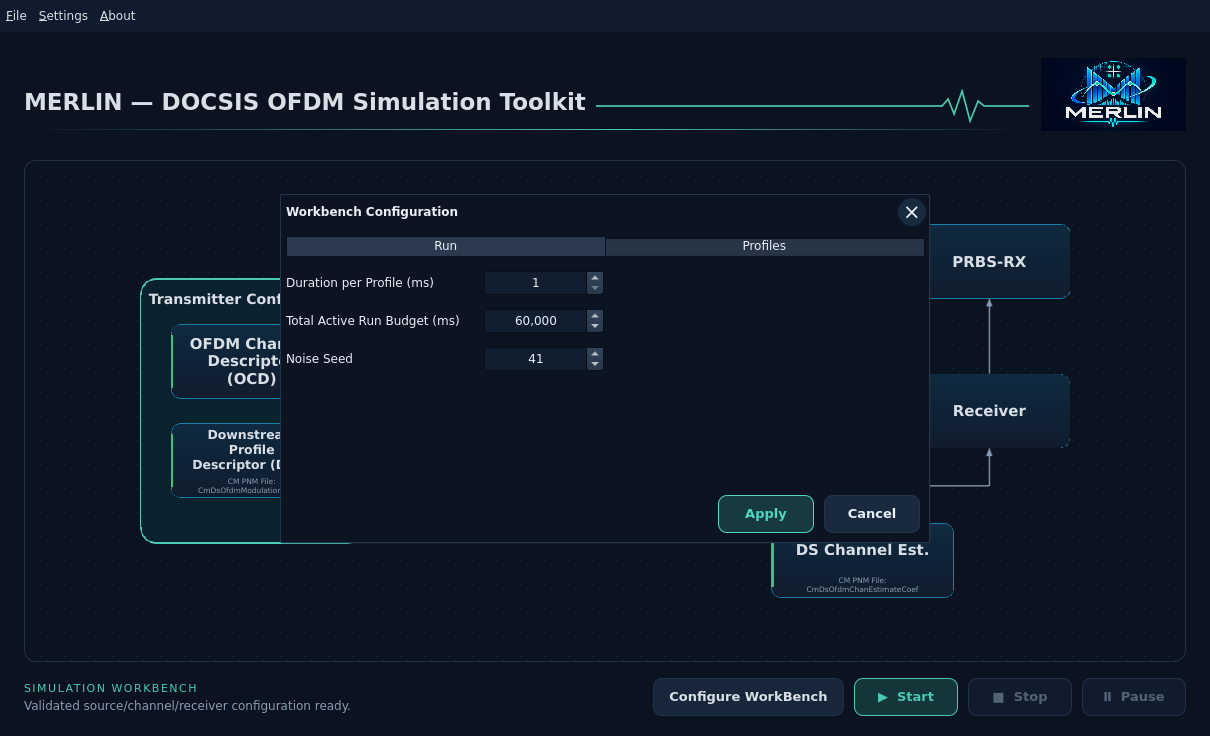
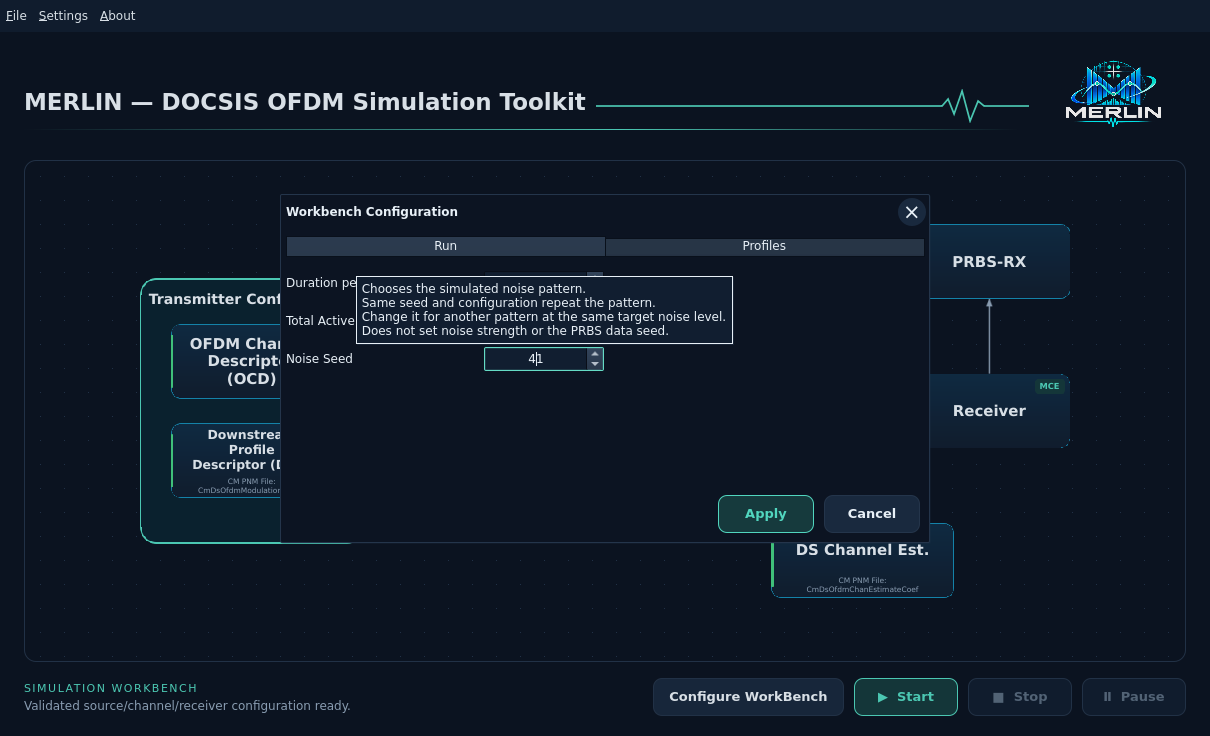
Feature: Explain Noise Seed with contextual help - Add hover, focus and accessible explanations - Update terminology, guide and native screenshot - Tests: 66 adapter and 58 QML checks pass - Tests: Clippy and native Qt build pass

Changed region(s): [[0.2752, 0.375, 0.6116, 0.5], [0.9174, 0.0938, 0.9479, 0.125], [0.8562, 0.5, 0.8868, 0.5312]]

diff --git a/apps/qt/qml/workbenches/workbench/WorkbenchConfigurationDialog.qml b/apps/qt/qml/workbenches/workbench/WorkbenchConfigurationDialog.qml
@@ -14,6 +14,7 @@ WorkbenchDialog {
     property var draft: ({})
     property var profileIds: []
     property var selectedIds: []
+    readonly property string noiseSeedHelp: "Chooses the simulated noise pattern.\nSame seed and configuration repeat the pattern.\nChange it for another pattern at the same target noise level.\nDoes not set noise strength or the PRBS data seed."
     property string errorMessage: ""
     signal configurationApplied()
     title: "Workbench Configuration"
@@ -44,8 +45,21 @@ WorkbenchDialog {
                 SpinBox { objectName:"wbRunDuration";from:1;to:1000;editable:true;value:dialog.draft.duration_ms || 3;onValueModified:dialog.draft.duration_ms=value }
                 Label { text:"Total Active Run Budget (ms)";color:dialog.theme.text }
                 SpinBox { from:1000;to:300000;stepSize:1000;editable:true;value:dialog.draft.max_runtime_ms || 300000;onValueModified:dialog.draft.max_runtime_ms=value }
-                Label { text:"Noise Seed";color:dialog.theme.text }
-                SpinBox { from:0;to:2147483647;editable:true;value:dialog.draft.noise_seed===undefined ? 41:dialog.draft.noise_seed;onValueModified:dialog.draft.noise_seed=value }
+                Label {
+                    text:"Noise Seed";color:dialog.theme.text
+                    HoverHandler { id:noiseSeedLabelHover }
+                    ToolTip.visible: noiseSeedLabelHover.hovered
+                    ToolTip.text: dialog.noiseSeedHelp
+                }
+                SpinBox {
+                    objectName:"wbNoiseSeed"
+                    from:0;to:2147483647;editable:true
+                    value:dialog.draft.noise_seed===undefined ? 41:dialog.draft.noise_seed
+                    onValueModified:dialog.draft.noise_seed=value
+                    ToolTip.visible: hovered || activeFocus
+                    ToolTip.text: dialog.noiseSeedHelp
+                    Accessible.description: dialog.noiseSeedHelp
+                }
             }
             ColumnLayout {
                 spacing:12

diff --git a/docs/user/terminology.md b/docs/user/terminology.md
@@ -86,6 +86,7 @@ See [QAM processing](qam-processing/README.md) and [receiver instruments](receiv
 | TX-reference MER | Modulation error ratio calculated against the actual transmitted symbol at the same physical bin and time. In the QAM analyzer the reference is diagnostic only; it is never supplied to the receiver. |
 | Nearest-point estimate | MER calculated using the nearest ideal constellation point instead of the actual transmitted symbol. Dense QAM and wrong decisions can make it too optimistic. |
 | Run Profile | The captured profile ID used by one independent simulation run. It is separate from the current on-wire Profile A/ID0. |
+| Noise Seed | Starting value for the simulated noise generator. The same seed and configuration repeat the noise pattern; a different seed changes the pattern at the same target noise level. Separate from PRBS data generation. See [run settings](workbench-configuration.md#run). |
 | RxMER | Receive Modulation Error Ratio: per-subcarrier signal-to-modulation-error power ratio, commonly expressed in dB. MERLIN uses it to model residual error power; it does not reconstruct measured I/Q from RxMER. |
 | Channel estimate H | Complex frequency response across subcarriers. Flat/unity H = 1 + 0i means no gain/phase change; H = 0 + 0i would suppress the signal. |
 | Receiver estimate Ĥ (H-hat) | Channel response estimated from received pilots, distinct from applied H. The response Display selector calls it MCE Estimate for MCE runs and Pilot Estimate for legacy pilot-estimated runs. See the [MCE guide](receiver-estimation/mce.md). |

diff --git a/docs/development/features/workbench-configuration/design.md b/docs/development/features/workbench-configuration/design.md
@@ -176,3 +176,19 @@ All three native validation logs are empty. An actual Profile3 run completed
 with 1,779,000 compared bits and zero errors. The current executable is built;
 no core tests, installer lifecycle or other-OS validation was needed or claimed
 for this presentation-only change. The UI skill and both discovery links validate.
+
+## UI-WB-CONFIG-02: Explain Noise Seed
+
+Explain the noise-only pseudorandom seed on hover over both its label and editor,
+and on keyboard focus in the editor. Use one shared explanation and accessibility
+text. The same configuration and seed repeat noise; another seed changes the
+noise realization at the same target level, independently of PRBS data. Preserve
+validation, accepted settings and Apply/Cancel. QML owns help presentation;
+Rust remains the source of noise generation. Validate with Qt checks and inspect
+the actual native dark tooltip; update the run guide and terminology.
+
+Validation: Qt formatting, warnings-denied Clippy, 66 adapter tests and 58 QML
+checks pass. Native executable rebuilt after the final compact help text change.
+Actual Ubuntu dark captures verify label hover and focused-value help; the run
+settings guide screenshot is refreshed. Architecture and official checklist
+reviewed; scientific ownership, WB schema and noise generation remain unchanged.

diff --git a/docs/user/workbench-configuration.md b/docs/user/workbench-configuration.md
@@ -25,7 +25,12 @@ Set observation **Duration per Profile**, **Total Active Run Budget** and
 Each profile starts an independent simulation with the same accepted channel,
 source and seeds. Profile capacity can change the number of processed codewords.
 
-![Workbench run settings](../images/workbench/workbench-configuration-run-dark.png)
+**Noise Seed** chooses the simulated noise pattern. Keep the same seed and
+configuration to repeat a run; change the seed to try a different noise pattern
+at the same target noise level. It does not set noise strength or the PRBS data
+seed. Hover over the label or value, or focus the value with Tab, for this help.
+
+![Workbench run settings with Noise Seed help](../images/workbench/workbench-configuration-run-dark.png)
 
 ## Profiles
 

diff --git a/docs/development/checklist.md b/docs/development/checklist.md
@@ -1018,6 +1018,8 @@ validation are complete; the user guide includes the current dark capture.
 - [x] **UI-WB-CONFIG-01** Main Configure WB with Run/Profiles tabs, explicit
   New/Open activation, subset persistence/migration and Receiver-only controls.
   Adapter/QML checks and native visual/Save As/Open verification pass.
+- [x] **UI-WB-CONFIG-02** Explain Noise Seed on label/value hover and editor
+  focus, with accessible help, terminology and native guide screenshot.
 - [x] **CI-CONSOLIDATE-01** Implement two entry points sharing all validation,
   parallel native tests and release-only packages; static validation passes.
 - [x] **CI-DESKTOP-APT-01** Implement strict refresh, bounded retry and CI mirror
